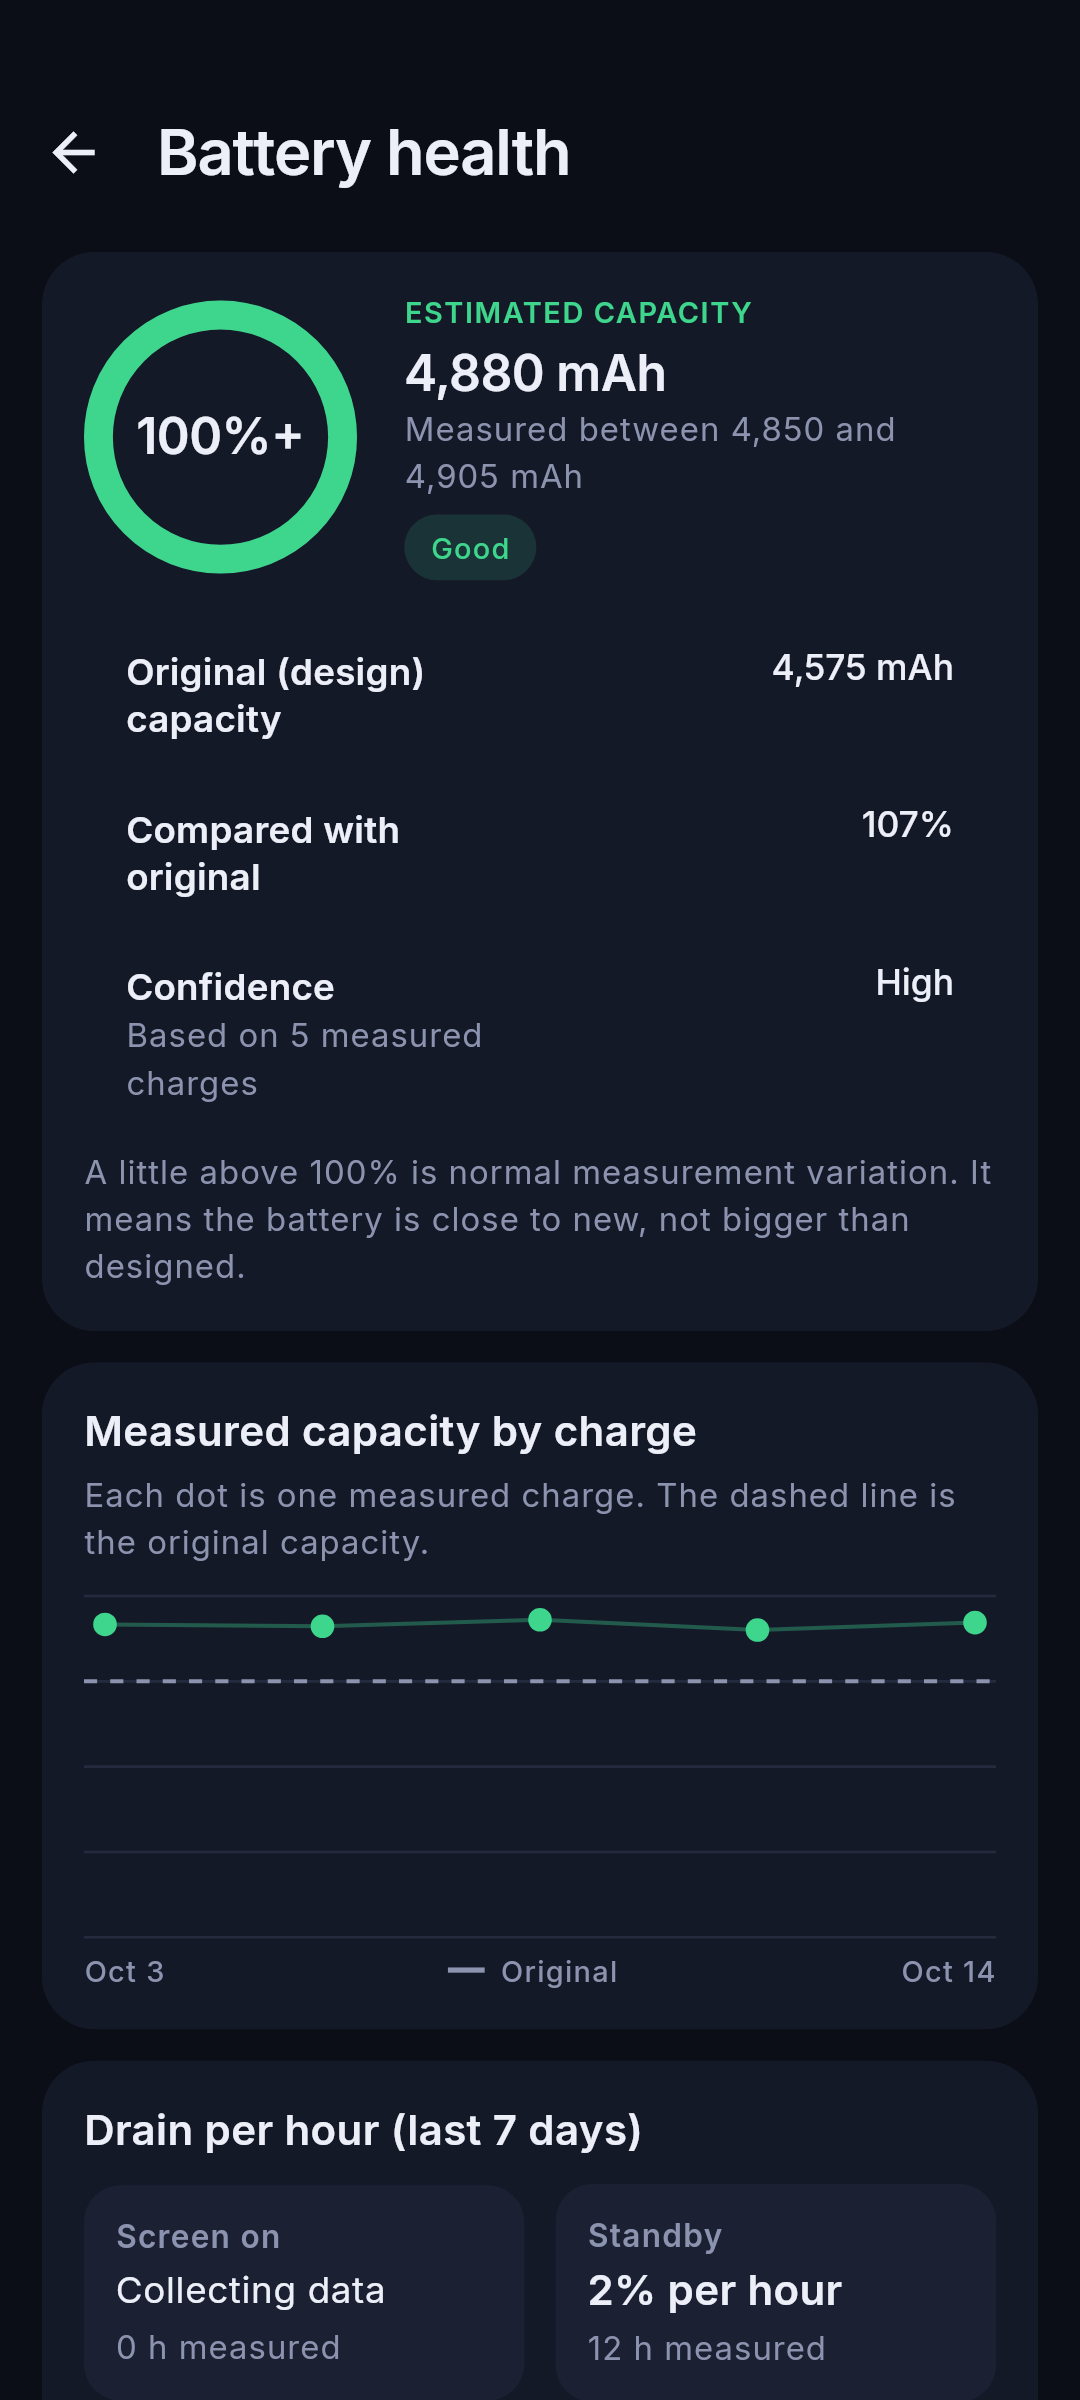
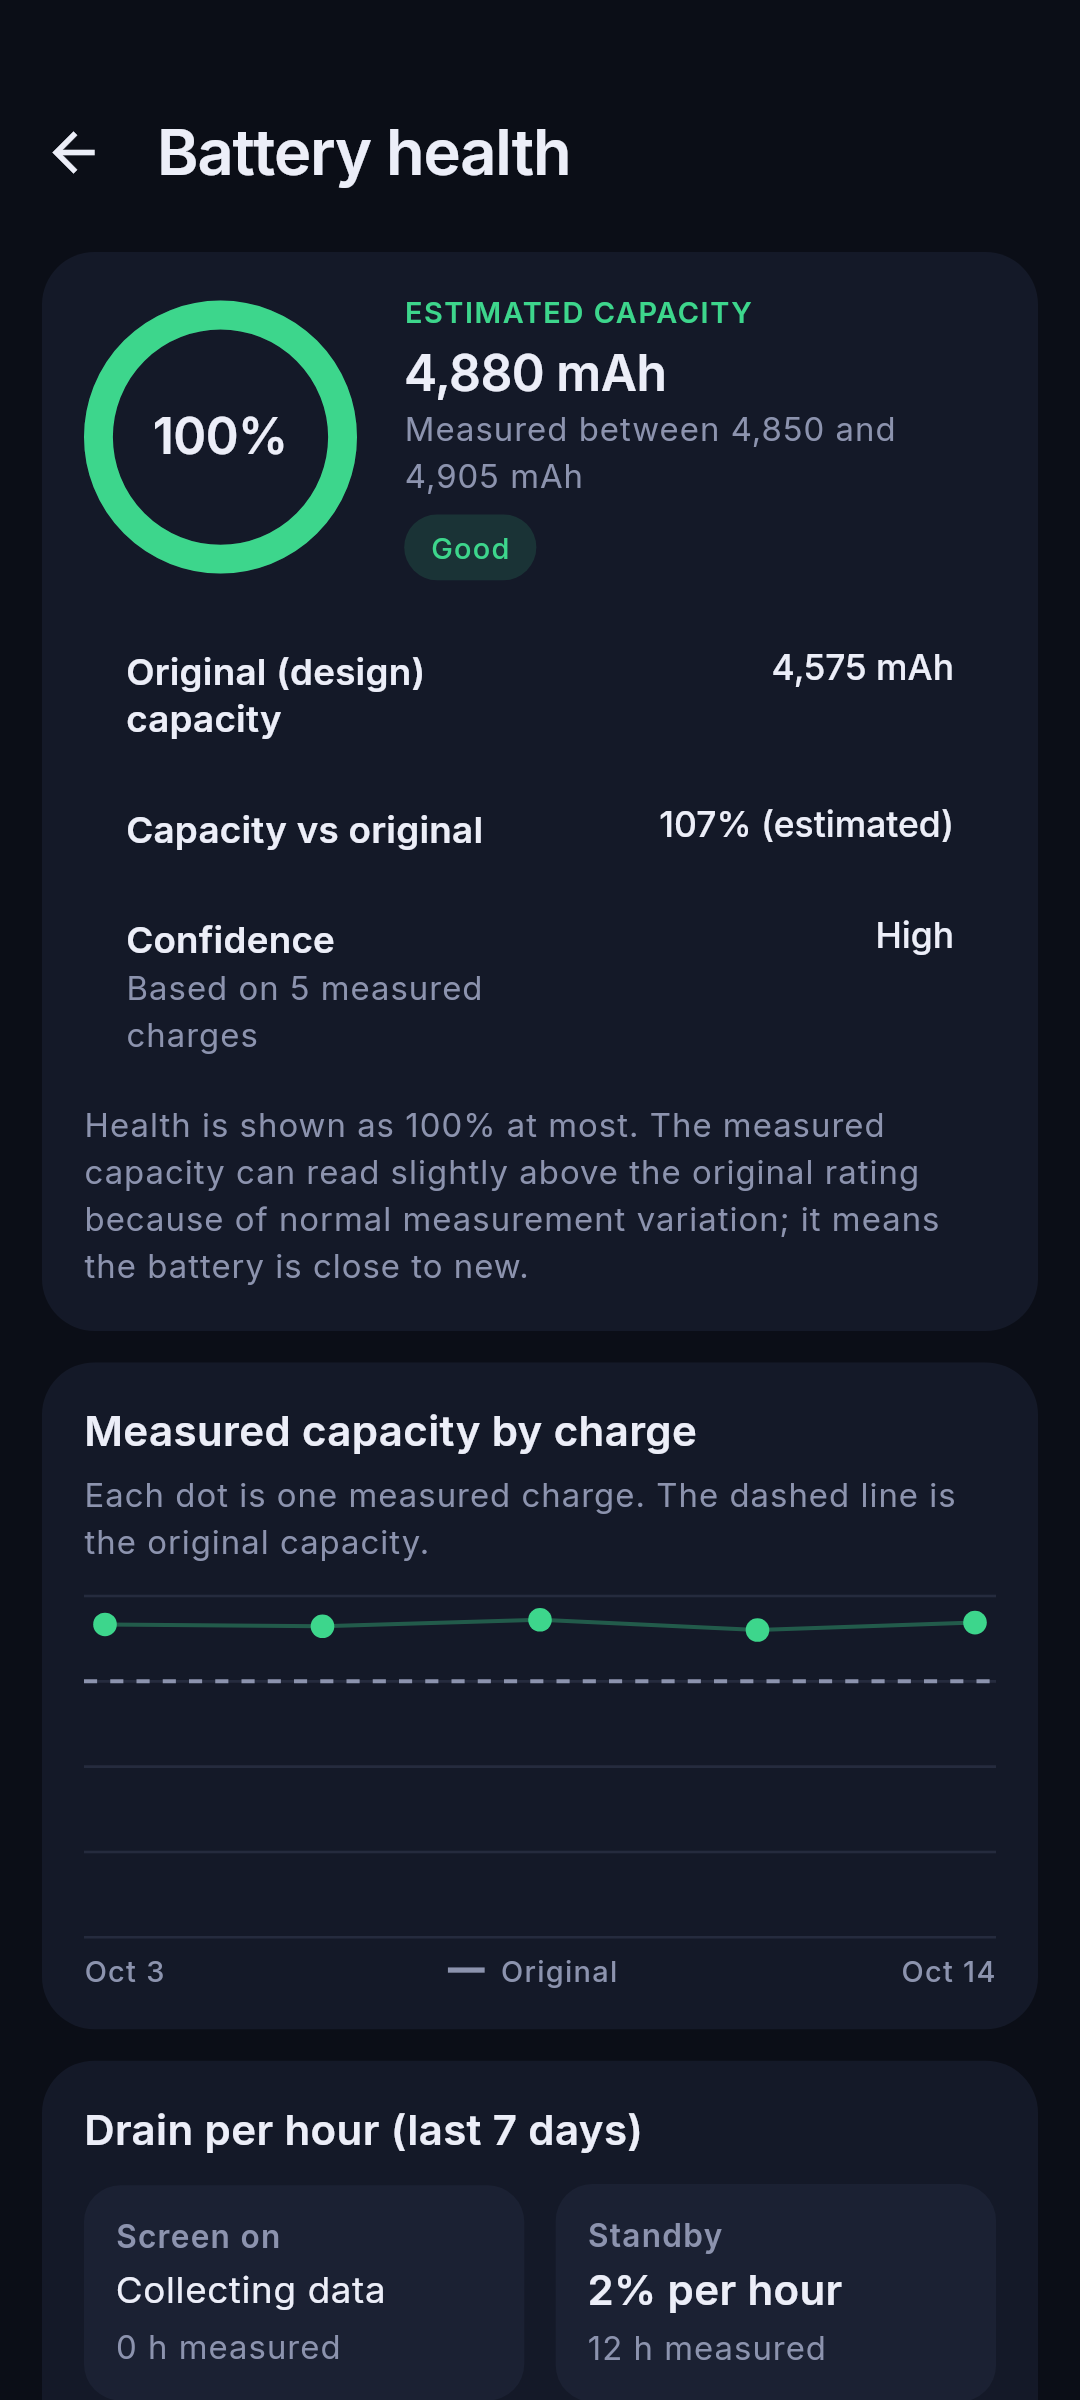
Battery health: ring capped at 100%, raw ratio labelled estimated; larger Live Status battery and temperature text
- Ring and row now follow one rule: health shown as 100% at most, the
  measured ratio listed separately as "N% (estimated)" with a note.
- Live notification: battery and temperature values 26sp medium with
  13sp labels in the expanded view, 20sp in the collapsed view; the
  secondary readings stay compact below.

Claude-Session: https://claude.ai/code/session_01HzGgrf8mJzWqPVbmwGG37y

Changed region(s): [[0.0917, 0.3438, 0.8556, 0.5312], [0.7944, 0.3125, 0.8861, 0.4375], [0.1222, 0.1562, 0.275, 0.1875]]

diff --git a/systemx/lib/features/background/battery_health.dart b/systemx/lib/features/background/battery_health.dart
@@ -46,6 +46,11 @@ class CapacityEstimate {
   /// [mah] against the design capacity, raw (can exceed 100).
   final int? percentOfDesign;
 
+  /// The user-facing health percentage: [percentOfDesign] capped at 100,
+  /// since a battery can't hold more than it was designed for and readings
+  /// above that are measurement variation. The raw ratio stays available.
+  int? get healthPercent => percentOfDesign == null ? null : (percentOfDesign! > 100 ? 100 : percentOfDesign);
+
   /// Measurements behind [mah].
   final int count;
   final Confidence confidence;
@@ -172,13 +177,10 @@ class BatteryHealthScreen extends ConsumerWidget {
       HealthBand.poor => sx.bad,
       HealthBand.insufficient => sx.muted,
     };
-    // Shown percentage: readings a little over the rating are measurement
-    // variation, so they read "100%+" with an explanation; the raw mAh stays.
-    final ringText = band == HealthBand.insufficient || pct == null
-        ? '–'
-        : pct > 100
-            ? '100%+'
-            : '$pct%';
+    // One display rule: the ring shows health (ratio capped at 100%); the
+    // raw ratio appears once, labelled as estimated.
+    final health = est.healthPercent;
+    final ringText = band == HealthBand.insufficient || health == null ? '–' : '$health%';
     final bandText = switch (band) {
       HealthBand.good => l.bhGood,
       HealthBand.fair => l.bhFair,
@@ -200,7 +202,7 @@ class BatteryHealthScreen extends ConsumerWidget {
           child: Column(crossAxisAlignment: CrossAxisAlignment.start, children: [
             Row(children: [
               GaugeRing(
-                value: band == HealthBand.insufficient ? 0 : ((pct ?? 0) / 100).clamp(0, 1).toDouble(),
+                value: band == HealthBand.insufficient ? 0 : (health ?? 0) / 100,
                 color: color,
                 size: 104,
                 stroke: 11,
@@ -232,7 +234,7 @@ class BatteryHealthScreen extends ConsumerWidget {
                 value: design == null ? l.notAvailable : '${nf.format(design.round())} mAh',
               ),
               if (pct != null && design != null)
-                InfoRow(label: l.bhOfOriginal, value: '$pct%'),
+                InfoRow(label: l.bhOfOriginal, value: l.bhEstimatedPct(pct)),
               InfoRow(label: l.bhConfidence, value: confidenceText, hint: l.bhBasedOn(est.count)),
               if (pct != null && pct > 100) ...[
                 const SizedBox(height: 4),

diff --git a/systemx/lib/l10n/app_localizations_bn.dart b/systemx/lib/l10n/app_localizations_bn.dart
@@ -3332,11 +3332,11 @@ class AppLocalizationsBn extends AppLocalizations {
   String get bhDesignCapacity => 'মূল (ডিজাইন) ক্যাপাসিটি';
 
   @override
-  String get bhOfOriginal => 'মূলের তুলনায়';
+  String get bhOfOriginal => 'মূলের তুলনায় ক্যাপাসিটি';
 
   @override
   String get bhOver100 =>
-      '১০০%-এর একটু বেশি হওয়া স্বাভাবিক মাপের পার্থক্য। এর মানে ব্যাটারি প্রায় নতুনের মতো, ডিজাইনের চেয়ে বড় নয়।';
+      'হেলথ সর্বোচ্চ ১০০% দেখানো হয়। স্বাভাবিক মাপের পার্থক্যের কারণে মাপা ক্যাপাসিটি মূল মানের একটু বেশি দেখাতে পারে; এর মানে ব্যাটারি প্রায় নতুনের মতো।';
 
   @override
   String get bhConfidence => 'নির্ভরযোগ্যতা';
@@ -3450,4 +3450,9 @@ class AppLocalizationsBn extends AppLocalizations {
 
   @override
   String get nBluetoothOn => 'ব্লুটুথ চালু আছে এবং সাড়া দিচ্ছে';
+
+  @override
+  String bhEstimatedPct(int pct) {
+    return '$pct% (আনুমানিক)';
+  }
 }

diff --git a/systemx/lib/l10n/app_localizations.dart b/systemx/lib/l10n/app_localizations.dart
@@ -6077,13 +6077,13 @@ abstract class AppLocalizations {
   /// No description provided for @bhOfOriginal.
   ///
   /// In en, this message translates to:
-  /// **'Compared with original'**
+  /// **'Capacity vs original'**
   String get bhOfOriginal;
 
   /// No description provided for @bhOver100.
   ///
   /// In en, this message translates to:
-  /// **'A little above 100% is normal measurement variation. It means the battery is close to new, not bigger than designed.'**
+  /// **'Health is shown as 100% at most. The measured capacity can read slightly above the original rating because of normal measurement variation; it means the battery is close to new.'**
   String get bhOver100;
 
   /// No description provided for @bhConfidence.
@@ -6235,6 +6235,12 @@ abstract class AppLocalizations {
   /// In en, this message translates to:
   /// **'Bluetooth is on and responding'**
   String get nBluetoothOn;
+
+  /// No description provided for @bhEstimatedPct.
+  ///
+  /// In en, this message translates to:
+  /// **'{pct}% (estimated)'**
+  String bhEstimatedPct(int pct);
 }
 
 class _AppLocalizationsDelegate

diff --git a/systemx/lib/l10n/app_localizations_en.dart b/systemx/lib/l10n/app_localizations_en.dart
@@ -3355,11 +3355,11 @@ class AppLocalizationsEn extends AppLocalizations {
   String get bhDesignCapacity => 'Original (design) capacity';
 
   @override
-  String get bhOfOriginal => 'Compared with original';
+  String get bhOfOriginal => 'Capacity vs original';
 
   @override
   String get bhOver100 =>
-      'A little above 100% is normal measurement variation. It means the battery is close to new, not bigger than designed.';
+      'Health is shown as 100% at most. The measured capacity can read slightly above the original rating because of normal measurement variation; it means the battery is close to new.';
 
   @override
   String get bhConfidence => 'Confidence';
@@ -3476,4 +3476,9 @@ class AppLocalizationsEn extends AppLocalizations {
 
   @override
   String get nBluetoothOn => 'Bluetooth is on and responding';
+
+  @override
+  String bhEstimatedPct(int pct) {
+    return '$pct% (estimated)';
+  }
 }

diff --git a/systemx/test/battery_health_test.dart b/systemx/test/battery_health_test.dart
@@ -43,7 +43,7 @@ void main() {
     final five = estimateCapacity([for (final c in [4890, 4850, 4900, 4870, 4880]) _s(c)], 4855);
     expect(five.confidence, Confidence.high);
     expect(five.band, HealthBand.good);
-    expect(five.percentOfDesign, 101); // raw, not capped; shown as 100%+
+    expect(five.percentOfDesign, 101); // raw, not capped; ring shows 100%, row "101% (estimated)"
 
     final worn = estimateCapacity([_s(3000), _s(3100), _s(3050)], 4855);
     expect(worn.band, HealthBand.poor);
